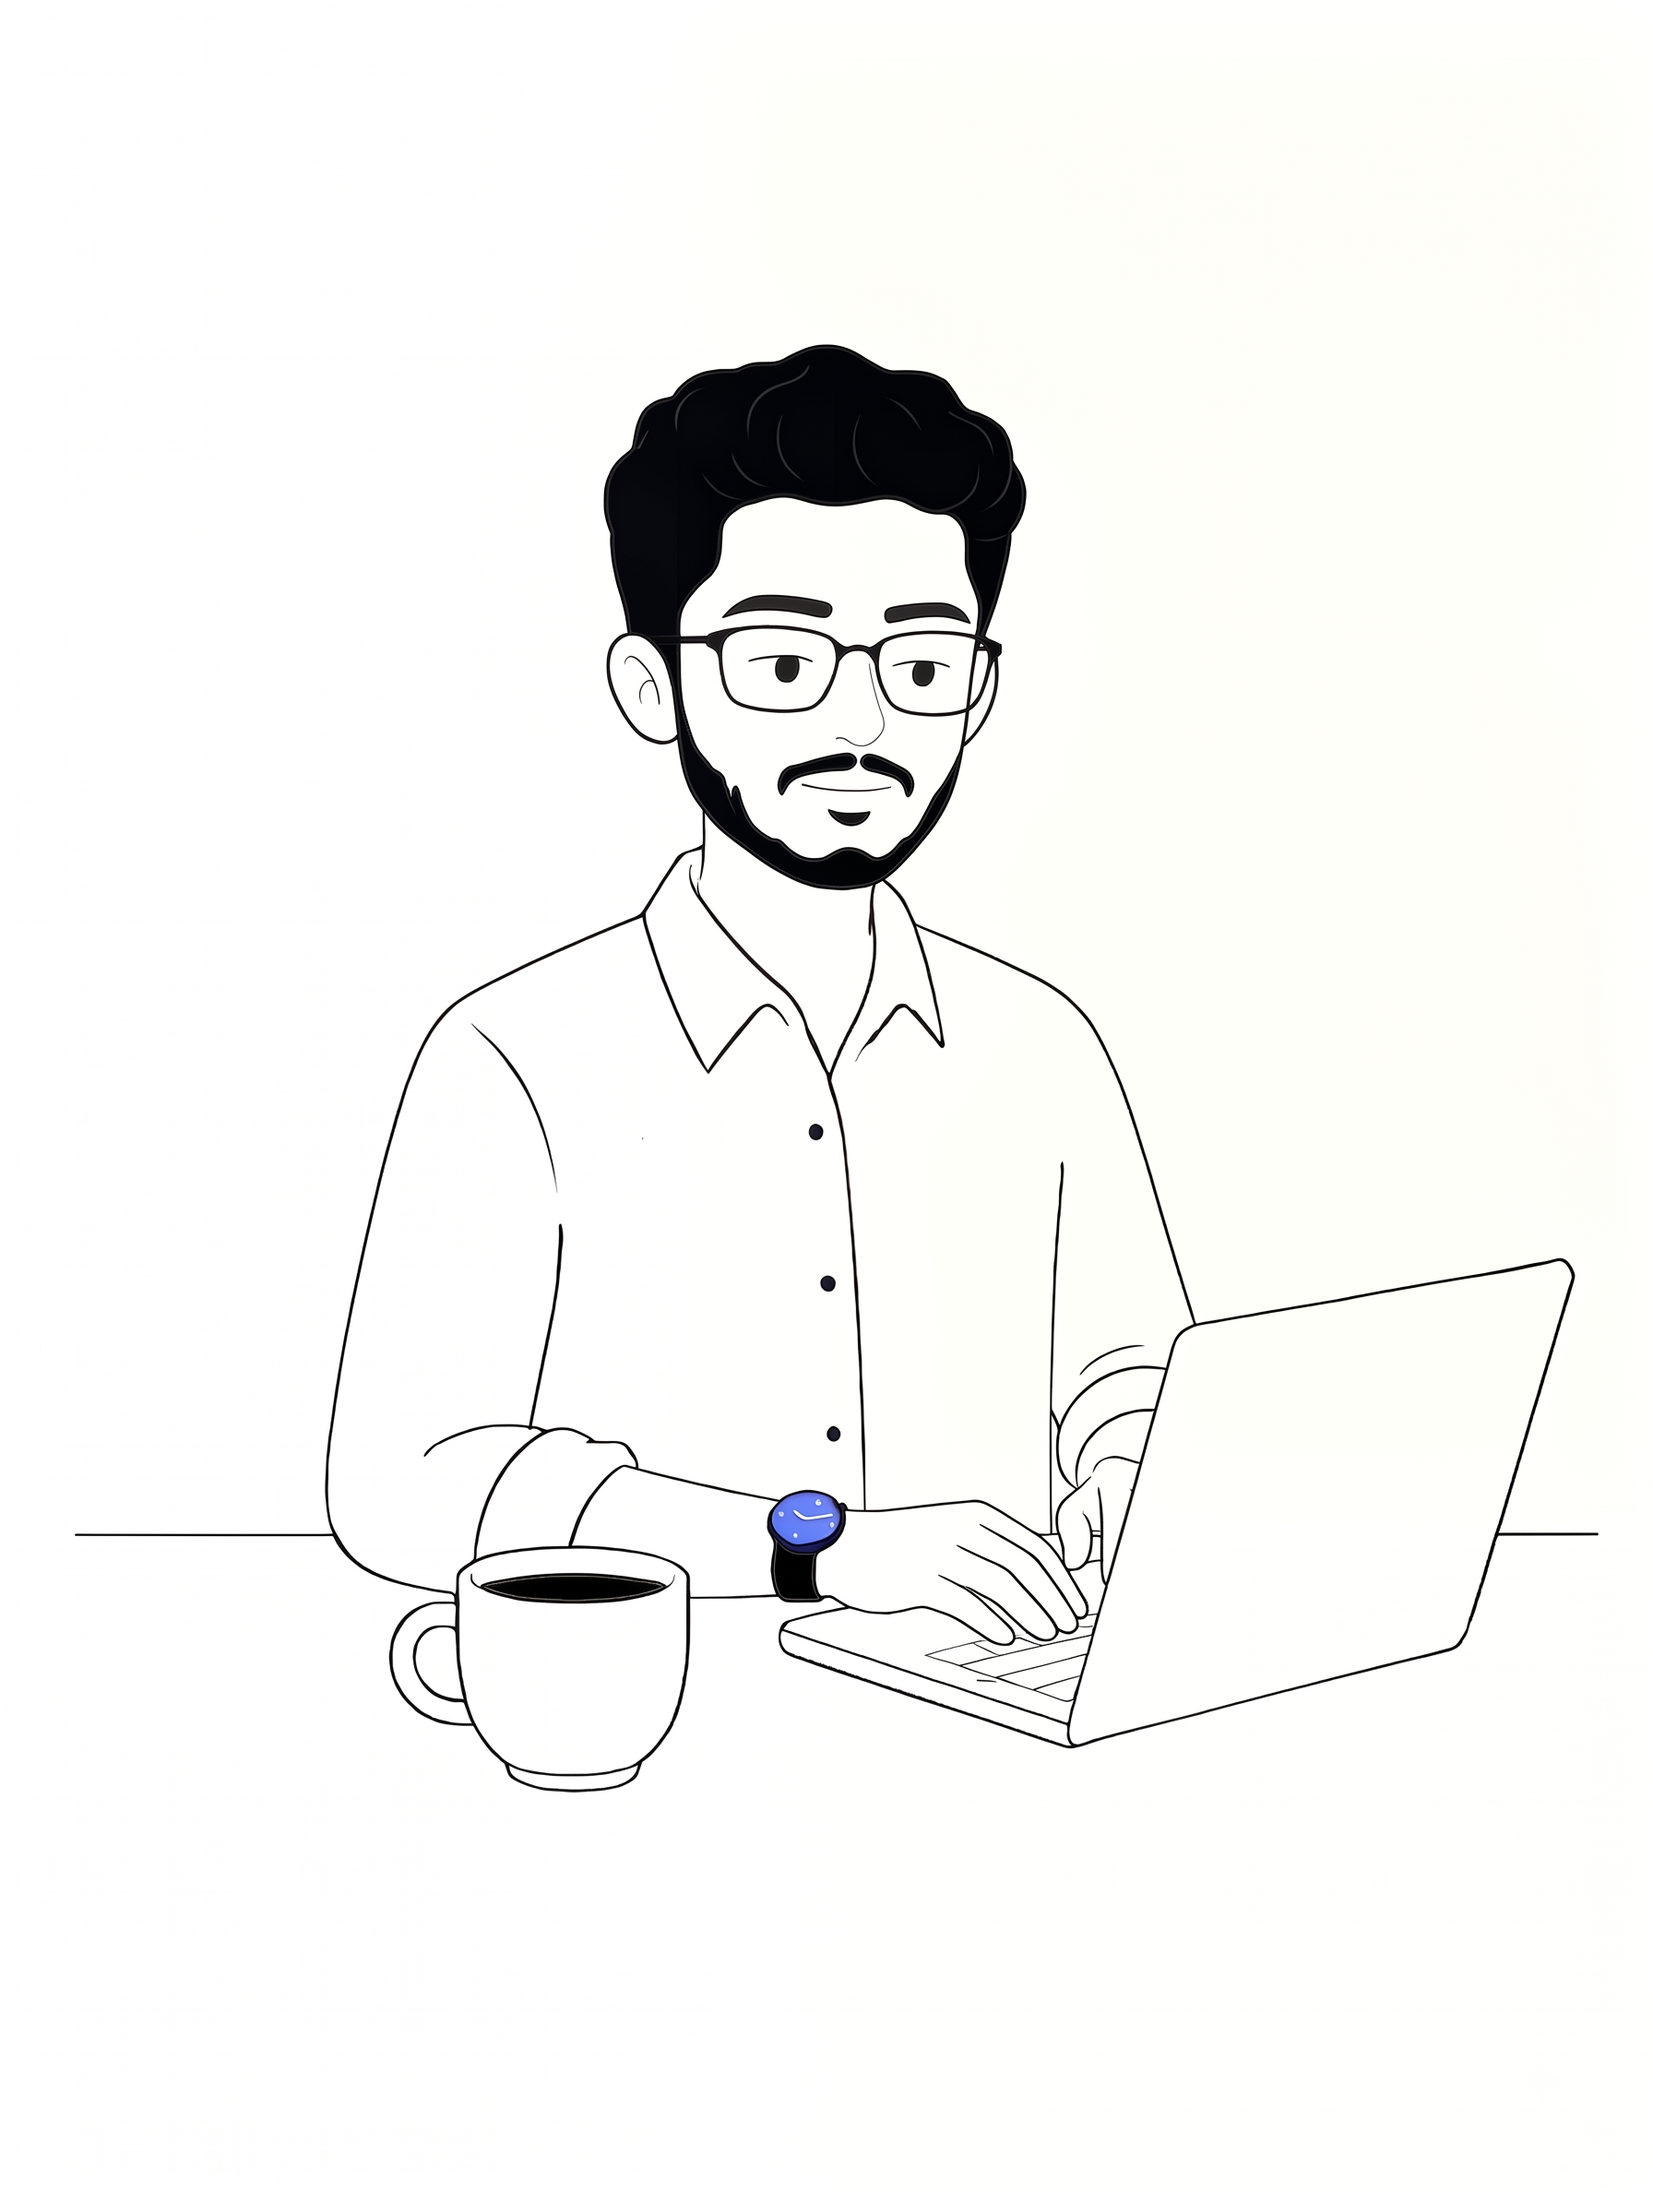
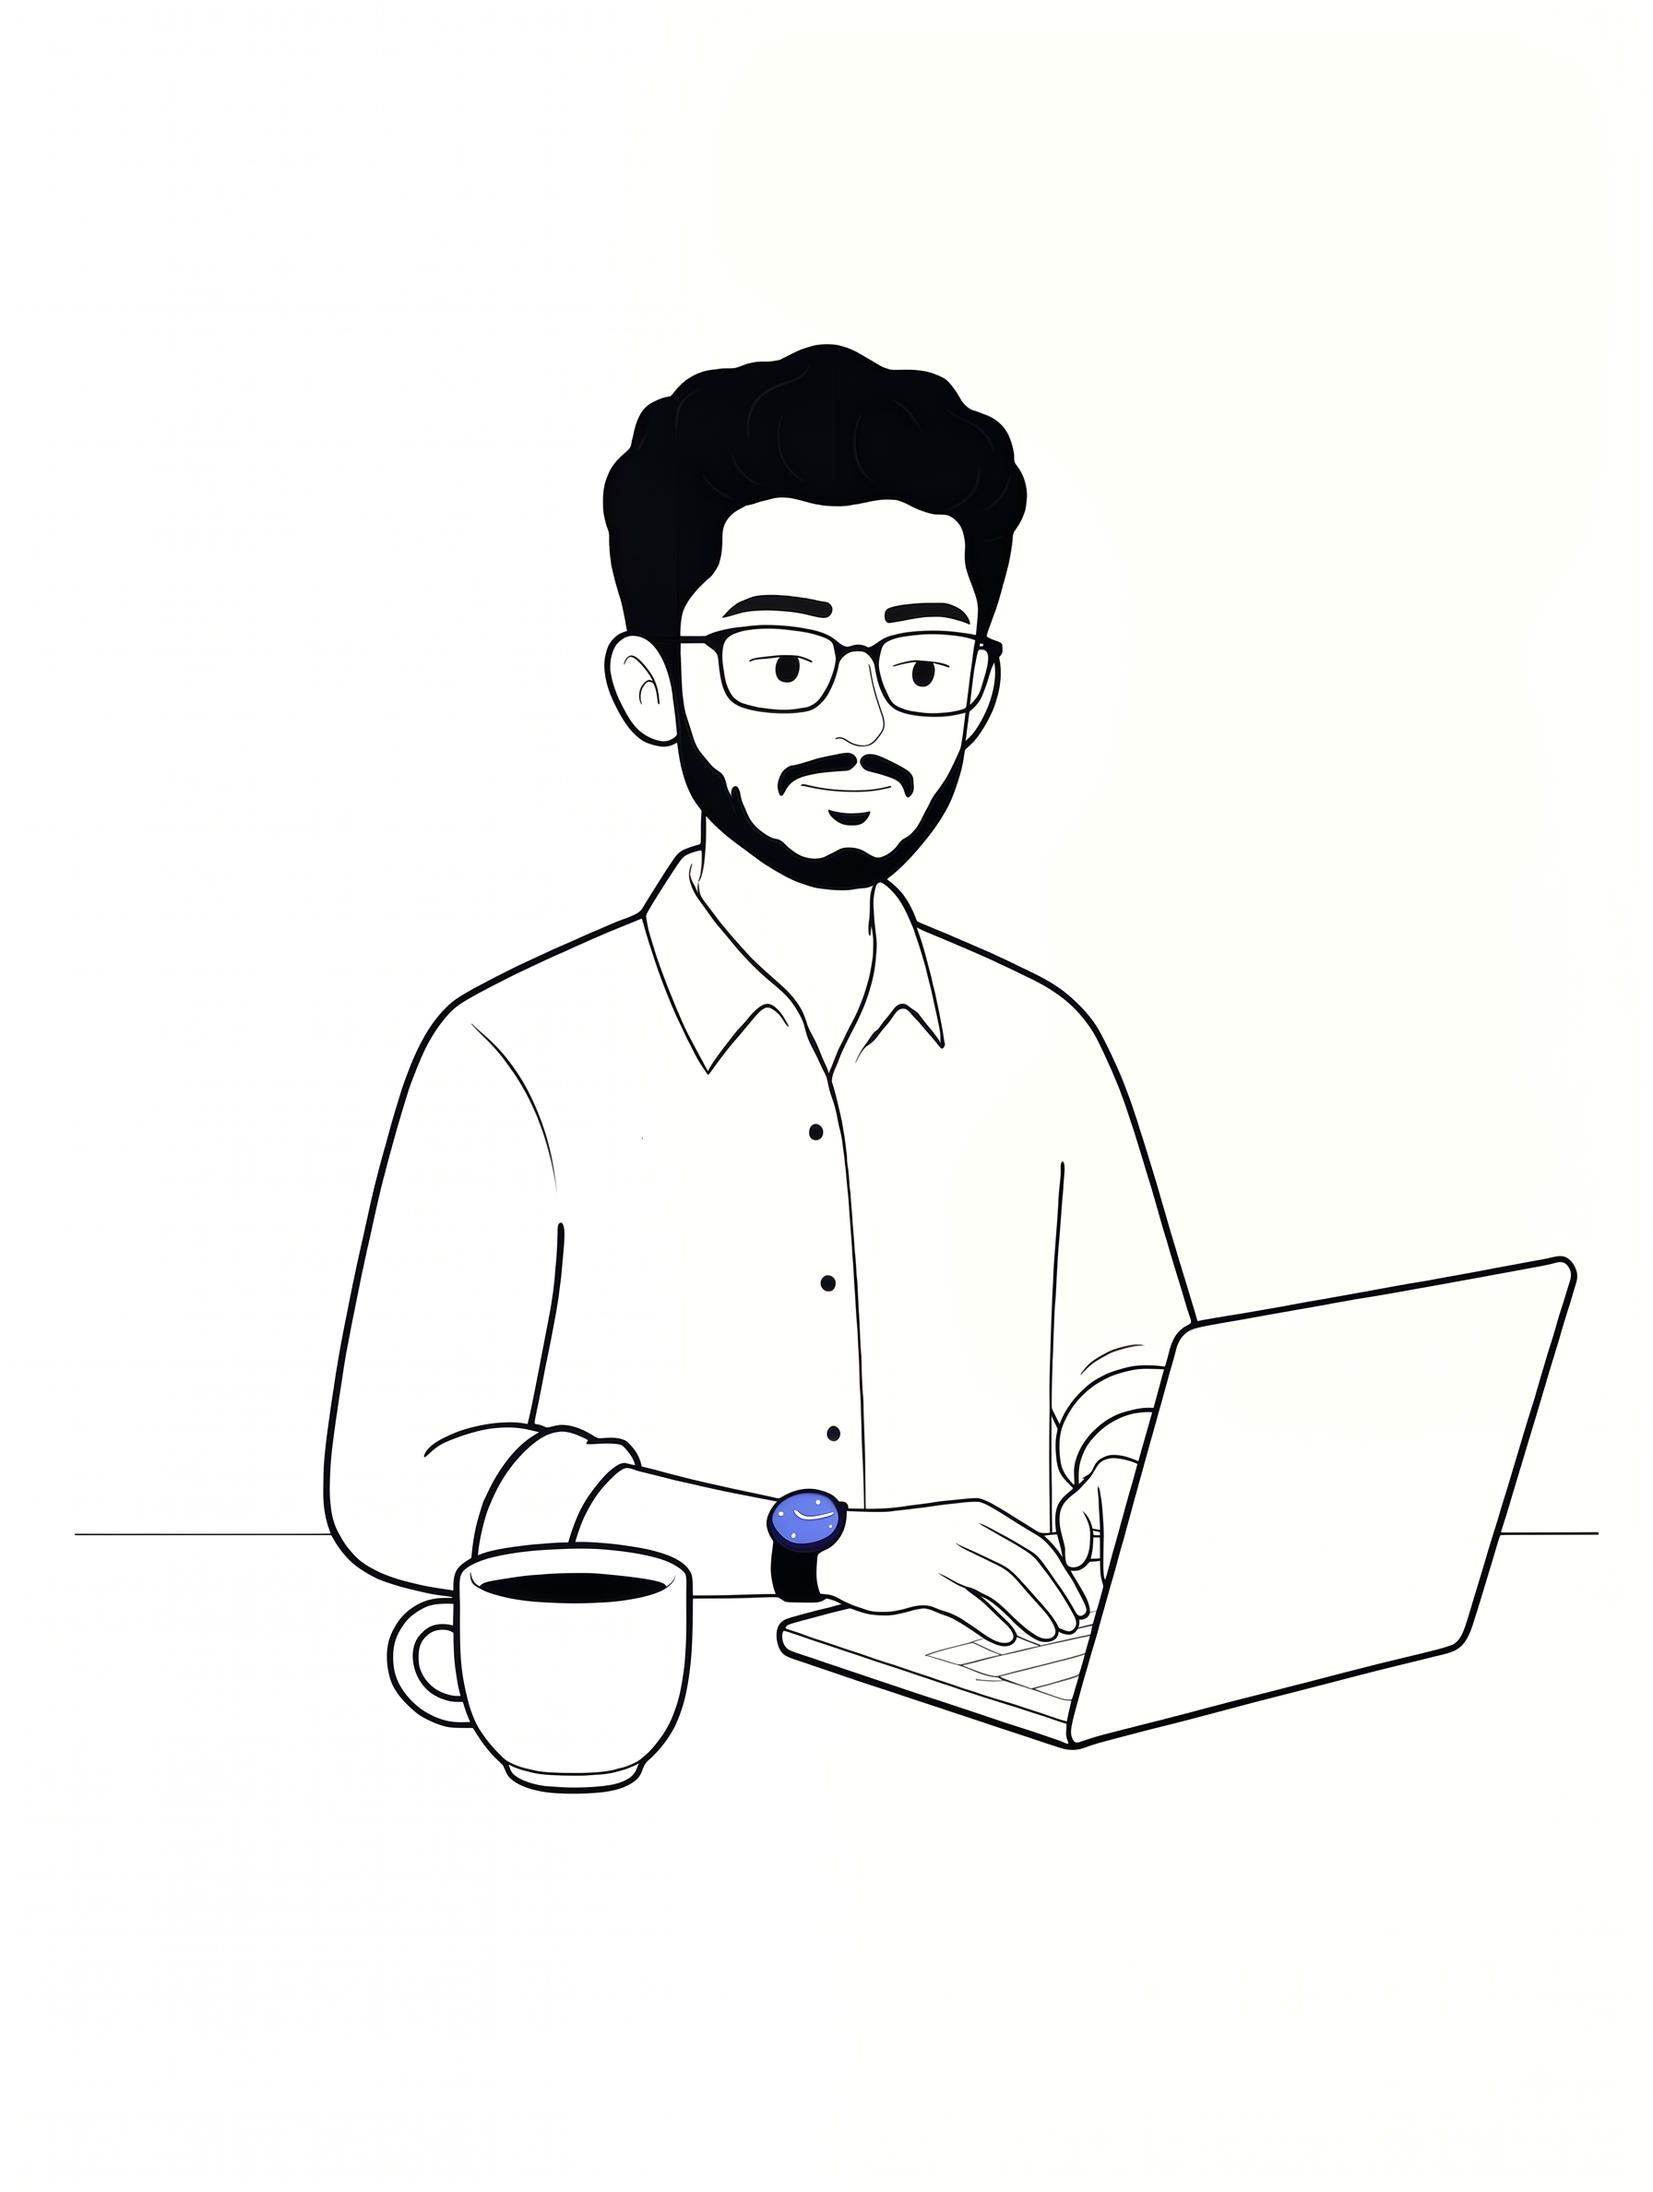
refactor: update button styles, hero section layout, and developer animation frame sequence

diff --git a/src/styles/sections.css b/src/styles/sections.css
@@ -247,17 +247,17 @@
   display: flex;
   flex-direction: column;
   align-items: stretch;
-  max-width: 1100px;
+  max-width: 1060px;
   width: 100%;
   position: relative;
   margin: 0 auto;
-  margin-top: -30px;
+  margin-top: -35px;
 }
 
 .hero-grid {
   display: grid;
   grid-template-columns: 1fr;
-  gap: 48px;
+  gap: 24px;
   width: 100%;
   align-items: center;
 }
@@ -308,7 +308,7 @@
   font-weight: 700;
   letter-spacing: 3.5px;
   text-transform: uppercase;
-  margin-bottom: 20px;
+  margin-bottom: 12px;
   position: relative;
   display: inline-flex;
   align-items: center;
@@ -334,14 +334,21 @@
 .hero-title {
   font-family: 'Orbitron', sans-serif;
   color: #000000;
-  font-size: clamp(36px, 7vw, 84px);
+  font-size: clamp(36px, 8vw, 84px);
   font-weight: 900;
-  line-height: 1;
-  letter-spacing: 3px;
-  margin-bottom: 16px;
+  line-height: 0.95;
+  letter-spacing: -1px;
+  margin-bottom: 24px;
   -webkit-text-stroke: none;
   text-shadow: none;
   text-align: center;
+}
+
+@media (min-width: 801px) {
+  .hero-title {
+    white-space: nowrap;
+    font-size: clamp(38px, 6vw, 76px);
+  }
 }
 
 @media (max-width: 700px) {
@@ -355,7 +362,7 @@
   display: flex;
   align-items: center;
   justify-content: center;
-  margin-bottom: 32px;
+  margin-bottom: 28px;
 }
 
 .hero-role {
@@ -384,12 +391,13 @@
 
 .hero-description {
   font-family: var(--font-sans);
-  color: #475569;
+  color: #334155;
   font-size: clamp(16px, 2vw, 18px);
-  max-width: 520px;
-  line-height: 1.6;
-  margin-bottom: 48px;
-  font-weight: 400;
+  max-width: 560px;
+  line-height: 1.7;
+  letter-spacing: 0.2px;
+  margin-bottom: 28px;
+  font-weight: 500;
 }
 .desktop-break { display: block; }
 @media (max-width: 700px) {
@@ -418,13 +426,13 @@
   height: 100%;
   object-fit: contain;
   display: block;
-  opacity: 0.82;
+  opacity: 0.85;
   mix-blend-mode: multiply;
 }
 
 @media (min-width: 801px) {
   .hero-animation-slot {
-    transform: translate(-45px, -20px) scale(1.15);
+    transform: translate(-20px, 25px) scale(1.10);
   }
 }
 

diff --git a/src/styles/components.css b/src/styles/components.css
@@ -40,7 +40,7 @@
   align-items: center;
   justify-content: center;
   gap: 10px;
-  background: #ffffff;
+  background: transparent;
   border: 2.5px solid #000000;
   border-radius: 6px;
   padding: 0 32px;
@@ -50,7 +50,7 @@
   font-size: 14px;
   font-weight: 800;
   cursor: pointer;
-  box-shadow: 4px 4px 0px #000000;
+  box-shadow: 2px 2px 0px #000000;
   text-decoration: none;
   transition: all 0.15s cubic-bezier(0.16, 1, 0.3, 1);
   outline: none;
@@ -58,13 +58,12 @@
 
 .btn-secondary:hover {
   transform: translate(2px, 2px);
-  box-shadow: 2px 2px 0px #000000;
-  background: #f8fafc;
+  box-shadow: 0px 0px 0px #000000;
+  background: #ffffff;
 }
 
 .btn-secondary:active {
-  transform: translate(4px, 4px);
-  box-shadow: 0px 0px 0px #000000;
+  transform: translate(2px, 2px);
 }
 
 .btn-icon-svg {

diff --git a/src/components/DeveloperAnimation/DeveloperAnimation.tsx b/src/components/DeveloperAnimation/DeveloperAnimation.tsx
@@ -5,6 +5,8 @@ const FRAMES = {
     'wave/wave1.png', 'wave/wave2.png', 'wave/wave3.png', 'wave/wave2.png', 'wave/wave1.png',
     'wave/wave2.png', 'wave/wave3.png', 'wave/wave2.png', 'wave/wave1.png',
     'wave/wave2.png', 'wave/wave3.png', 'wave/wave2.png', 'wave/wave1.png', 
+    'wave/wave2.png', 'wave/wave3.png', 'wave/wave2.png', 'wave/wave1.png',
+    'wave/wave2.png', 'wave/wave3.png', 'wave/wave2.png', 'wave/wave1.png',
     'wave/wave2.png', 'wave/wave3.png'
   ],
   scrollDown: [
